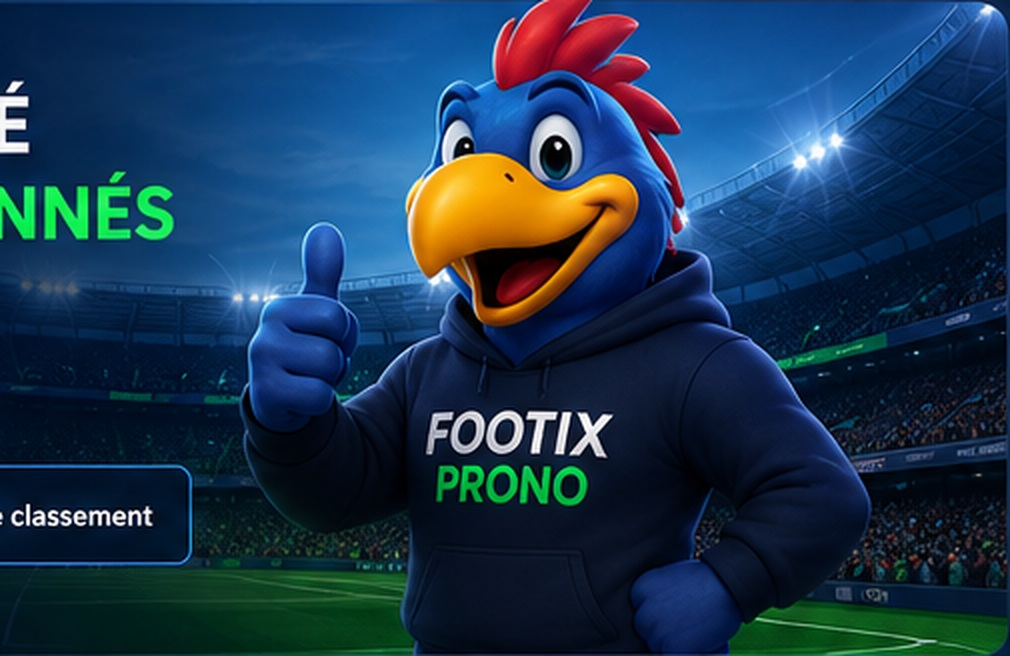
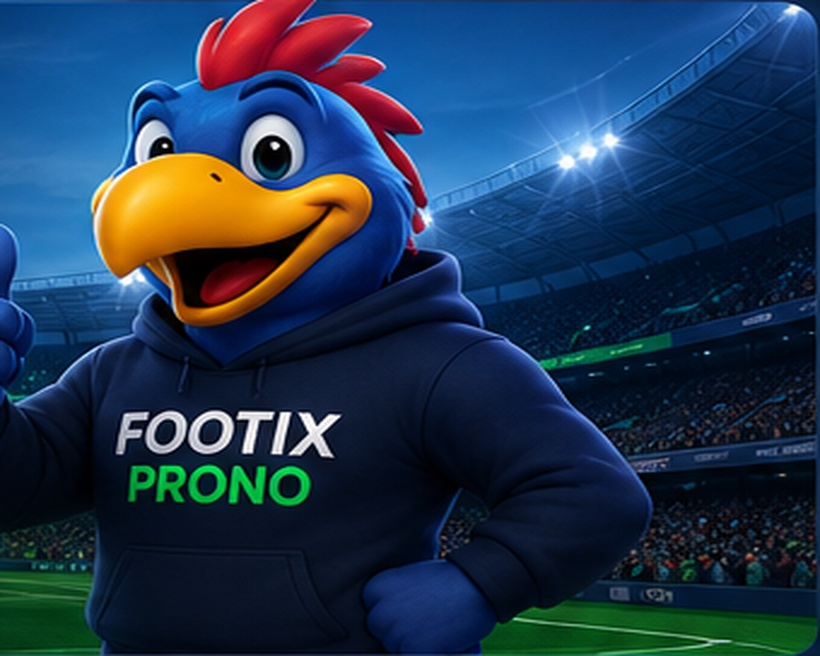
Add files via upload

diff --git a/index.html b/index.html
@@ -5,7 +5,7 @@
 <meta name="theme-color" content="#041022">
 <title>Footix Prono — Pronostics & communauté football</title>
 <meta name="description" content="Footix Prono : pronostics Ligue 1 et Ligue des Champions, communauté, classements et profils membres.">
-<link rel="stylesheet" href="styles.css?v=9.1.0">
+<link rel="stylesheet" href="styles.css?v=9.1.1">
 <link rel="icon" type="image/png" href="logo-footix-prono.png">
 </head>
 <body class="v91-home">
@@ -40,7 +40,6 @@
       </nav>
       
 <nav class="top-nav v91-auth-nav" aria-label="Compte membre">
-  <button class="theme-moon" type="button" aria-label="Thème sombre" title="Thème sombre">☾</button>
   <button class="top-nav-link auth-link login-trigger" type="button"><span class="nav-glyph">♟</span><span>SE CONNECTER</span></button>
   <button class="top-nav-link signup-link signup-trigger" type="button"><span class="nav-glyph">♙+</span><span>S'INSCRIRE</span></button>
   <a class="top-nav-link account-link is-hidden" href="profil.html"><span class="nav-glyph">●</span><span class="account-label">MON PROFIL</span></a>
@@ -78,12 +77,23 @@
         </div>
       </section>
 
-      <aside class="v91-community-card">
-        <div class="v91-card-title">💬 <b>LA COMMUNAUTÉ</b></div>
-        <a href="community.html#livre-or" class="community-entry"><span class="entry-icon">▰</span><div><b>LIVRE D'OR</b><p>Discute, partage ta passion et échange avec la communauté.</p></div><strong>›</strong></a>
-        <a href="community.html#suggestions" class="community-entry"><span class="entry-icon idea">💡</span><div><b>SUGGESTIONS</b><p>Propose tes idées pour améliorer Footix Prono.</p></div><strong>›</strong></a>
-        <div class="join-discussion"><b>Rejoins la discussion !</b><p>Ta voix compte dans l'évolution de Footix Prono.</p><a href="community.html">Voir la communauté <span>›</span></a></div>
-      </aside>
+      <aside class="v91-community-card compact-community-card">
+  <div class="v91-card-title">💬 <b>LA COMMUNAUTÉ</b></div>
+  <a href="community.html" class="community-entry single-community-entry">
+    <span class="entry-icon">💬</span>
+    <div>
+      <b>ESPACE COMMUNAUTÉ</b>
+      <p>Discute, partage ton avis et propose tes idées pour faire évoluer Footix Prono.</p>
+      <small>Livre d'or · Suggestions</small>
+    </div>
+    <strong>›</strong>
+  </a>
+  <div class="join-discussion compact">
+    <b>Ta voix compte.</b>
+    <p>Retrouve toutes les discussions au même endroit.</p>
+    <a href="community.html">Entrer dans la communauté <span>›</span></a>
+  </div>
+</aside>
 
       <section class="v91-benefits">
         <article><span>🛡</span><div><b>100% GRATUIT</b><p>Aucun pari, aucune mise. Uniquement du fun !</p></div></article>
@@ -159,5 +169,5 @@
 
 <script src="https://cdn.jsdelivr.net/npm/@supabase/supabase-js@2"></script>
 <script>window.FOOTIX_SUPABASE={url:"https://brjwujgtkyxzyytkwftw.supabase.co",key:"sb_publishable_iX8rHg-1NSkNU3tqsOl3jQ_osnxc1qs"};</script>
-<script src="auth-community.js?v=9.1.0"></script>
+<script src="auth-community.js?v=9.1.1"></script>
 </body></html>

diff --git a/styles.css b/styles.css
@@ -1964,3 +1964,88 @@ body.modal-open{overflow:hidden}
 @media(max-width:1180px){.v91-dashboard{grid-template-columns:1fr}.v91-top3,.v91-community-card{grid-column:1;grid-row:auto}.v91-avatar-grid{grid-template-columns:repeat(6,1fr)}.v91-benefits{grid-template-columns:repeat(2,1fr)}.desktop-main-nav{gap:12px}}
 @media(max-width:900px){.desktop-main-nav{display:none}.v91-avatar-grid{grid-template-columns:repeat(4,1fr)}.v91-hero{background-position:left,right center}.v91-hero-copy{padding:30px}.sidebar-mascot-art{display:none}}
 @media(max-width:620px){.v91-avatar-grid{grid-template-columns:repeat(3,1fr)}.v91-benefits{grid-template-columns:1fr}.v91-benefits article{border-right:0;border-bottom:1px solid #153b65}.community-compose{grid-template-columns:1fr}.compose-avatar{display:none}.v91-hero h1{font-size:31px}}
+
+
+/* ============================================================
+   V9.1.1 — CORRECTIFS VISUELS
+   ============================================================ */
+
+/* Aucun bouton de thème : le site reste volontairement sombre. */
+.theme-moon{display:none!important}
+
+/* Ne jamais afficher les contrôles compte censés être masqués. */
+.v91-auth-nav .is-hidden,
+.v91-topbar .is-hidden,
+.topbar .is-hidden{
+  display:none!important;
+}
+
+/* Barre haute plus propre et moins chargée. */
+.v91-topbar{
+  min-height:66px;
+}
+.v91-auth-nav{
+  display:flex;
+  align-items:center;
+  gap:9px;
+  margin-left:auto;
+}
+.v91-auth-nav .top-nav-link{
+  min-height:40px;
+  white-space:nowrap;
+}
+.v91-auth-nav .auth-link{
+  background:#07162a;
+  color:#e5edf8;
+}
+.v91-auth-nav .signup-link{
+  color:#00190d;
+}
+.v91-auth-nav .account-link{
+  border:1px solid #23568c;
+  background:#07162a;
+  color:#e8f2ff;
+}
+.v91-auth-nav .logout-link{
+  border:1px solid #223d61;
+  background:#07162a;
+  color:#91a5c1;
+}
+
+/* Le héros n'embarque plus de texte dans son image de fond. */
+.v91-hero{
+  background-image:
+    linear-gradient(90deg,rgba(5,25,50,.99) 0%,rgba(5,25,50,.94) 43%,rgba(5,25,50,.22) 69%),
+    url("community-hero.jpg");
+  background-size:auto 100%,auto 100%;
+  background-repeat:no-repeat;
+  background-position:left,right center;
+}
+.v91-hero-copy{
+  position:relative;
+  z-index:2;
+}
+
+/* Un seul accès Communauté sur l'accueil. */
+.compact-community-card{
+  align-self:start;
+}
+.single-community-entry{
+  margin-bottom:10px;
+  min-height:128px;
+}
+.single-community-entry small{
+  display:block;
+  margin-top:8px;
+  color:#58aefc;
+  font-size:10px;
+  font-weight:800;
+}
+.join-discussion.compact{
+  margin-top:8px;
+}
+
+/* Navigation desktop : un peu plus légère. */
+.desktop-main-nav a{
+  font-size:12px;
+}

diff --git a/community.html b/community.html
@@ -5,7 +5,7 @@
 <meta name="theme-color" content="#041022">
 <title>Communauté — Footix Prono</title>
 <meta name="description" content="Livre d'or et suggestions de la communauté Footix Prono.">
-<link rel="stylesheet" href="styles.css?v=9.1.0">
+<link rel="stylesheet" href="styles.css?v=9.1.1">
 <link rel="icon" type="image/png" href="logo-footix-prono.png">
 </head>
 <body>
@@ -28,7 +28,6 @@
   <div class="main-wrap">
     <header class="topbar v91-topbar"><nav class="desktop-main-nav"><a href="index.html">⌂ Accueil</a><a href="classement.html">♜ Classements</a><a class="active" href="community.html">▱ Communauté</a><a href="reglement.html">▤ Règlement</a></nav>
 <nav class="top-nav v91-auth-nav" aria-label="Compte membre">
-  <button class="theme-moon" type="button" aria-label="Thème sombre" title="Thème sombre">☾</button>
   <button class="top-nav-link auth-link login-trigger" type="button"><span class="nav-glyph">♟</span><span>SE CONNECTER</span></button>
   <button class="top-nav-link signup-link signup-trigger" type="button"><span class="nav-glyph">♙+</span><span>S'INSCRIRE</span></button>
   <a class="top-nav-link account-link is-hidden" href="profil.html"><span class="nav-glyph">●</span><span class="account-label">MON PROFIL</span></a>
@@ -114,5 +113,5 @@
 
 <script src="https://cdn.jsdelivr.net/npm/@supabase/supabase-js@2"></script>
 <script>window.FOOTIX_SUPABASE={url:"https://brjwujgtkyxzyytkwftw.supabase.co",key:"sb_publishable_iX8rHg-1NSkNU3tqsOl3jQ_osnxc1qs"};</script>
-<script src="auth-community.js?v=9.1.0"></script>
+<script src="auth-community.js?v=9.1.1"></script>
 </body></html>

diff --git a/champions.html b/champions.html
@@ -5,7 +5,7 @@
 <meta name="viewport" content="width=device-width,initial-scale=1">
 <meta name="theme-color" content="#020817">
 <title>Pronostics Ligue des Champions — Footix Prono</title>
-<link rel="stylesheet" href="styles.css?v=9.1.0">
+<link rel="stylesheet" href="styles.css?v=9.1.1">
   <meta name="description" content="Les pronostics Ligue des Champions de Footix, avec analyses des matchs, scores, buteurs et suivi de la compétition.">
   <meta name="robots" content="index, follow, max-image-preview:large">
   <meta name="theme-color" content="#07101f">
@@ -60,7 +60,6 @@
       <div class="slogan">ON EST TOUS LE FOOTIX DE QUELQU’UN.</div>
       
 <nav class="top-nav v91-auth-nav" aria-label="Compte membre">
-  <button class="theme-moon" type="button" aria-label="Thème sombre" title="Thème sombre">☾</button>
   <button class="top-nav-link auth-link login-trigger" type="button"><span class="nav-glyph">♟</span><span>SE CONNECTER</span></button>
   <button class="top-nav-link signup-link signup-trigger" type="button"><span class="nav-glyph">♙+</span><span>S'INSCRIRE</span></button>
   <a class="top-nav-link account-link is-hidden" href="profil.html"><span class="nav-glyph">●</span><span class="account-label">MON PROFIL</span></a>
@@ -181,7 +180,7 @@
 
 <script src="https://cdn.jsdelivr.net/npm/@supabase/supabase-js@2"></script>
 <script>window.FOOTIX_SUPABASE={url:"https://brjwujgtkyxzyytkwftw.supabase.co",key:"sb_publishable_iX8rHg-1NSkNU3tqsOl3jQ_osnxc1qs"};</script>
-<script src="auth-community.js?v=9.1.0"></script>
+<script src="auth-community.js?v=9.1.1"></script>
 
 </body>
 </html>

diff --git a/ligue1.html b/ligue1.html
@@ -5,7 +5,7 @@
 <meta name="viewport" content="width=device-width,initial-scale=1">
 <meta name="theme-color" content="#020817">
 <title>Pronostics Ligue 1 — Footix Prono</title>
-<link rel="stylesheet" href="styles.css?v=9.1.0">
+<link rel="stylesheet" href="styles.css?v=9.1.1">
   <meta name="description" content="Retrouve les pronostics Ligue 1 de Footix : scores, 1/N/2, buteurs, analyses, classement et bilan des journées.">
   <meta name="robots" content="index, follow, max-image-preview:large">
   <meta name="theme-color" content="#07101f">
@@ -60,7 +60,6 @@
       <div class="slogan">ON EST TOUS LE FOOTIX DE QUELQU’UN.</div>
       
 <nav class="top-nav v91-auth-nav" aria-label="Compte membre">
-  <button class="theme-moon" type="button" aria-label="Thème sombre" title="Thème sombre">☾</button>
   <button class="top-nav-link auth-link login-trigger" type="button"><span class="nav-glyph">♟</span><span>SE CONNECTER</span></button>
   <button class="top-nav-link signup-link signup-trigger" type="button"><span class="nav-glyph">♙+</span><span>S'INSCRIRE</span></button>
   <a class="top-nav-link account-link is-hidden" href="profil.html"><span class="nav-glyph">●</span><span class="account-label">MON PROFIL</span></a>
@@ -182,7 +181,7 @@
 
 <script src="https://cdn.jsdelivr.net/npm/@supabase/supabase-js@2"></script>
 <script>window.FOOTIX_SUPABASE={url:"https://brjwujgtkyxzyytkwftw.supabase.co",key:"sb_publishable_iX8rHg-1NSkNU3tqsOl3jQ_osnxc1qs"};</script>
-<script src="auth-community.js?v=9.1.0"></script>
+<script src="auth-community.js?v=9.1.1"></script>
 
 </body>
 </html>

diff --git a/confidentialite.html b/confidentialite.html
@@ -5,7 +5,7 @@
 <meta name="theme-color" content="#07101f">
 <title>Confidentialité — Footix Prono</title>
 <meta name="description" content="Politique de confidentialité de Footix Prono.">
-<link rel="stylesheet" href="styles.css?v=9.1.0">
+<link rel="stylesheet" href="styles.css?v=9.1.1">
 <link rel="icon" type="image/png" href="logo-footix-prono.png">
 </head>
 <body>
@@ -27,7 +27,6 @@
   <div class="main-wrap">
     <header class="topbar"><div class="slogan">ON EST TOUS LE FOOTIX DE QUELQU’UN.</div>
 <nav class="top-nav v91-auth-nav" aria-label="Compte membre">
-  <button class="theme-moon" type="button" aria-label="Thème sombre" title="Thème sombre">☾</button>
   <button class="top-nav-link auth-link login-trigger" type="button"><span class="nav-glyph">♟</span><span>SE CONNECTER</span></button>
   <button class="top-nav-link signup-link signup-trigger" type="button"><span class="nav-glyph">♙+</span><span>S'INSCRIRE</span></button>
   <a class="top-nav-link account-link is-hidden" href="profil.html"><span class="nav-glyph">●</span><span class="account-label">MON PROFIL</span></a>
@@ -115,6 +114,6 @@
 
 <script src="https://cdn.jsdelivr.net/npm/@supabase/supabase-js@2"></script>
 <script>window.FOOTIX_SUPABASE={url:"https://brjwujgtkyxzyytkwftw.supabase.co",key:"sb_publishable_iX8rHg-1NSkNU3tqsOl3jQ_osnxc1qs"};</script>
-<script src="auth-community.js?v=9.1.0"></script>
+<script src="auth-community.js?v=9.1.1"></script>
 
 </body></html>

diff --git a/classement.html b/classement.html
@@ -5,7 +5,7 @@
 <meta name="theme-color" content="#07101f">
 <title>Classements — Footix Prono</title>
 <meta name="description" content="Classements de la communauté Footix Prono.">
-<link rel="stylesheet" href="styles.css?v=9.1.0">
+<link rel="stylesheet" href="styles.css?v=9.1.1">
 <link rel="icon" type="image/png" href="logo-footix-prono.png">
 </head>
 <body>
@@ -27,7 +27,6 @@
   <div class="main-wrap">
     <header class="topbar"><div class="slogan">ON EST TOUS LE FOOTIX DE QUELQU’UN.</div>
 <nav class="top-nav v91-auth-nav" aria-label="Compte membre">
-  <button class="theme-moon" type="button" aria-label="Thème sombre" title="Thème sombre">☾</button>
   <button class="top-nav-link auth-link login-trigger" type="button"><span class="nav-glyph">♟</span><span>SE CONNECTER</span></button>
   <button class="top-nav-link signup-link signup-trigger" type="button"><span class="nav-glyph">♙+</span><span>S'INSCRIRE</span></button>
   <a class="top-nav-link account-link is-hidden" href="profil.html"><span class="nav-glyph">●</span><span class="account-label">MON PROFIL</span></a>
@@ -127,6 +126,6 @@
 
 <script src="https://cdn.jsdelivr.net/npm/@supabase/supabase-js@2"></script>
 <script>window.FOOTIX_SUPABASE={url:"https://brjwujgtkyxzyytkwftw.supabase.co",key:"sb_publishable_iX8rHg-1NSkNU3tqsOl3jQ_osnxc1qs"};</script>
-<script src="auth-community.js?v=9.1.0"></script>
+<script src="auth-community.js?v=9.1.1"></script>
 
 </body></html>

diff --git a/reglement.html b/reglement.html
@@ -5,7 +5,7 @@
 <meta name="theme-color" content="#07101f">
 <title>Règlement — Footix Prono</title>
 <meta name="description" content="Règlement de la communauté Footix Prono.">
-<link rel="stylesheet" href="styles.css?v=9.1.0">
+<link rel="stylesheet" href="styles.css?v=9.1.1">
 <link rel="icon" type="image/png" href="logo-footix-prono.png">
 </head>
 <body>
@@ -27,7 +27,6 @@
   <div class="main-wrap">
     <header class="topbar"><div class="slogan">ON EST TOUS LE FOOTIX DE QUELQU’UN.</div>
 <nav class="top-nav v91-auth-nav" aria-label="Compte membre">
-  <button class="theme-moon" type="button" aria-label="Thème sombre" title="Thème sombre">☾</button>
   <button class="top-nav-link auth-link login-trigger" type="button"><span class="nav-glyph">♟</span><span>SE CONNECTER</span></button>
   <button class="top-nav-link signup-link signup-trigger" type="button"><span class="nav-glyph">♙+</span><span>S'INSCRIRE</span></button>
   <a class="top-nav-link account-link is-hidden" href="profil.html"><span class="nav-glyph">●</span><span class="account-label">MON PROFIL</span></a>
@@ -119,6 +118,6 @@
 
 <script src="https://cdn.jsdelivr.net/npm/@supabase/supabase-js@2"></script>
 <script>window.FOOTIX_SUPABASE={url:"https://brjwujgtkyxzyytkwftw.supabase.co",key:"sb_publishable_iX8rHg-1NSkNU3tqsOl3jQ_osnxc1qs"};</script>
-<script src="auth-community.js?v=9.1.0"></script>
+<script src="auth-community.js?v=9.1.1"></script>
 
 </body></html>

diff --git a/profil.html b/profil.html
@@ -5,7 +5,7 @@
 <meta name="theme-color" content="#07101f">
 <title>Mon profil — Footix Prono</title>
 <meta name="description" content="Profil membre Footix Prono.">
-<link rel="stylesheet" href="styles.css?v=9.1.0">
+<link rel="stylesheet" href="styles.css?v=9.1.1">
 <link rel="icon" type="image/png" href="logo-footix-prono.png">
 </head>
 <body>
@@ -27,7 +27,6 @@
   <div class="main-wrap">
     <header class="topbar"><div class="slogan">ON EST TOUS LE FOOTIX DE QUELQU’UN.</div>
 <nav class="top-nav v91-auth-nav" aria-label="Compte membre">
-  <button class="theme-moon" type="button" aria-label="Thème sombre" title="Thème sombre">☾</button>
   <button class="top-nav-link auth-link login-trigger" type="button"><span class="nav-glyph">♟</span><span>SE CONNECTER</span></button>
   <button class="top-nav-link signup-link signup-trigger" type="button"><span class="nav-glyph">♙+</span><span>S'INSCRIRE</span></button>
   <a class="top-nav-link account-link is-hidden" href="profil.html"><span class="nav-glyph">●</span><span class="account-label">MON PROFIL</span></a>
@@ -130,6 +129,6 @@
 
 <script src="https://cdn.jsdelivr.net/npm/@supabase/supabase-js@2"></script>
 <script>window.FOOTIX_SUPABASE={url:"https://brjwujgtkyxzyytkwftw.supabase.co",key:"sb_publishable_iX8rHg-1NSkNU3tqsOl3jQ_osnxc1qs"};</script>
-<script src="auth-community.js?v=9.1.0"></script>
+<script src="auth-community.js?v=9.1.1"></script>
 
 </body></html>
